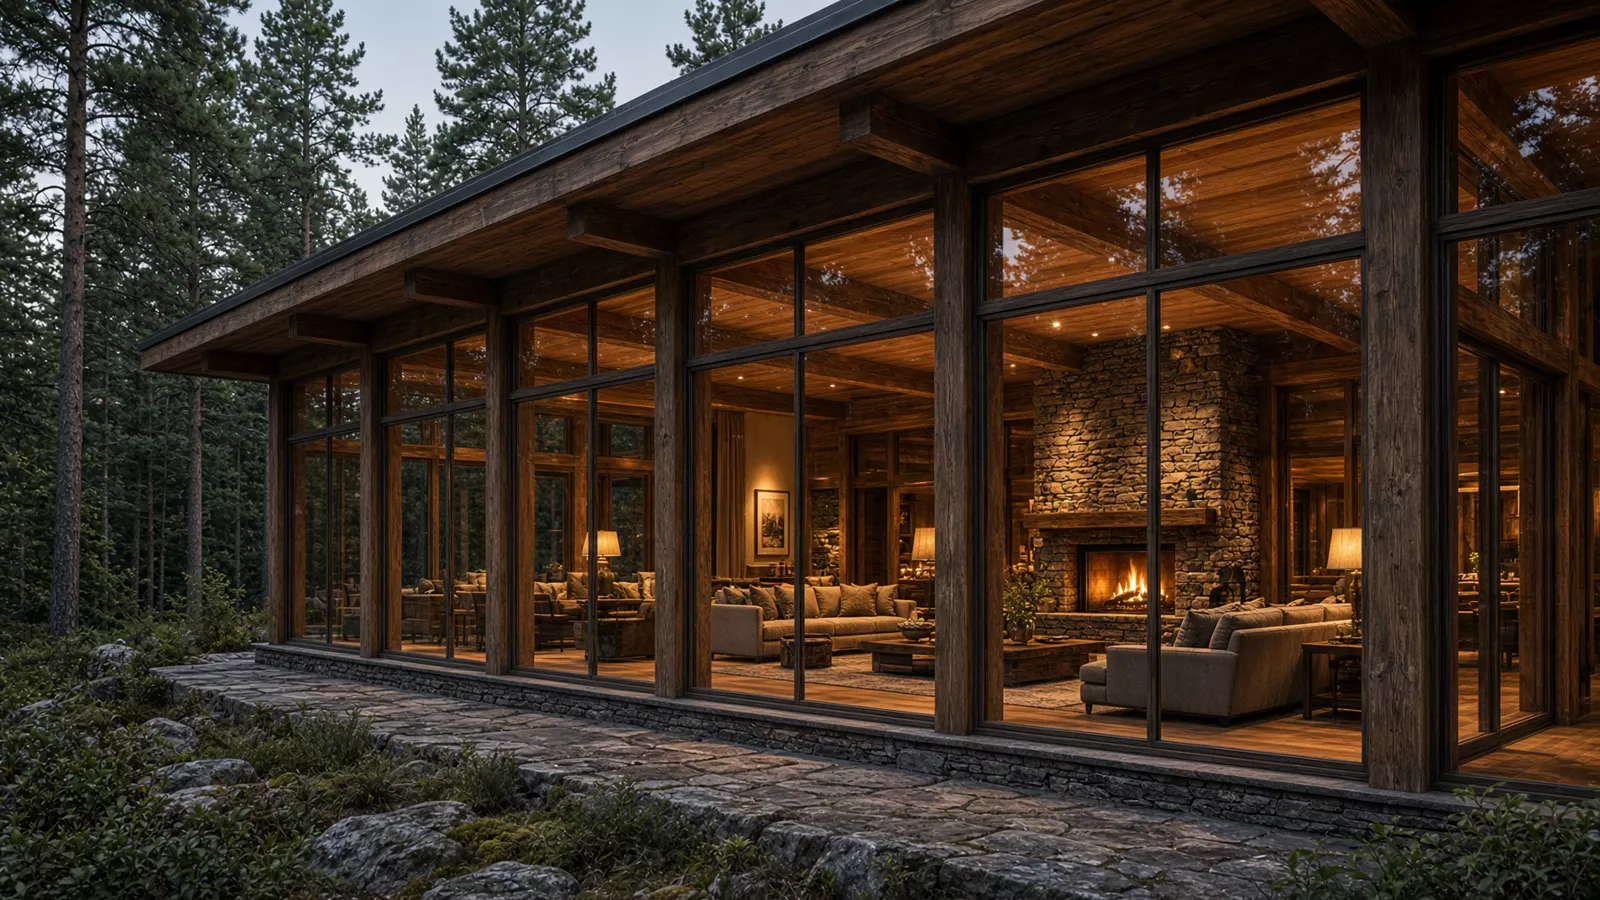
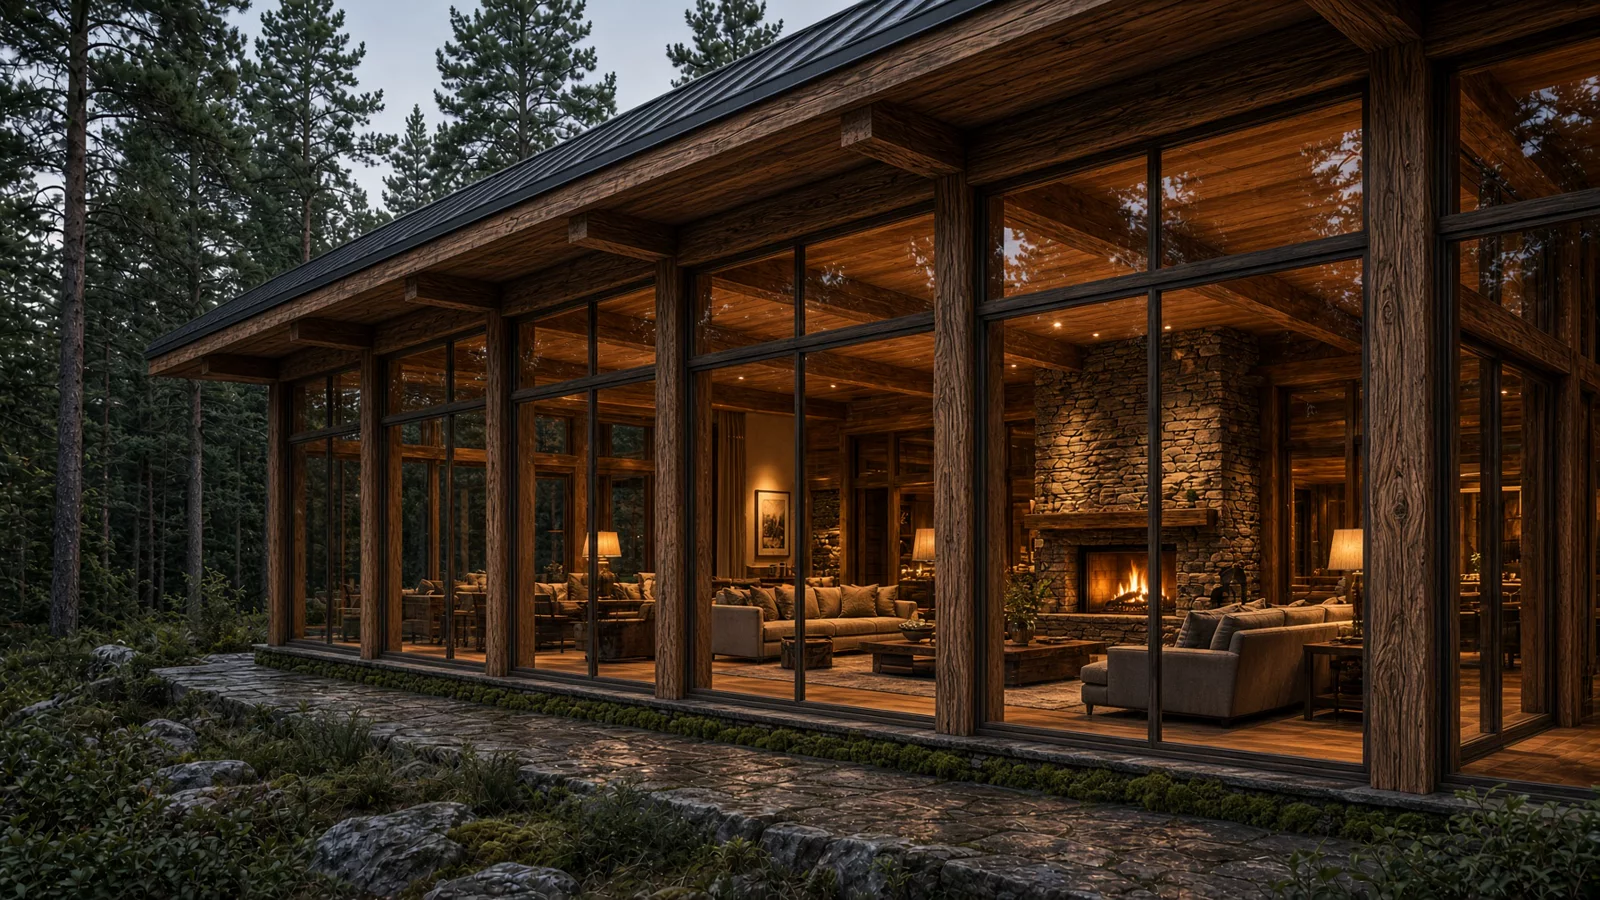
House textures: cedar grain, metal seams, PBR sheen on orbit

diff --git a/tour.html b/tour.html
@@ -25,7 +25,10 @@ body{background:var(--bg);color:var(--fg);font-family:var(--sans);-webkit-font-s
 .orbit-stage,.orbit-still,.fly-plane,.dive-film{position:absolute;inset:0}
 .orbit-stage{z-index:2;overflow:hidden}
 .orbit-still{opacity:0}
-.orbit-still img,.fly-plane img{position:absolute;inset:0;width:100%;height:100%;object-fit:cover}
+.orbit-still img,.fly-plane img{position:absolute;inset:0;width:100%;height:100%;object-fit:cover;filter:contrast(1.06) saturate(1.08)}
+.orbit-spec,.orbit-mat{position:absolute;inset:0;pointer-events:none}
+.orbit-spec{mix-blend-mode:screen;background:radial-gradient(ellipse 46% 38% at var(--lx,58%) var(--ly,36%), rgb(255 244 220 / var(--spec,0.16)) 0%, transparent 70%)}
+.orbit-mat{mix-blend-mode:overlay;opacity:.22;background-image:repeating-linear-gradient(90deg,transparent 0 2px,rgb(90 70 40 / 8%) 2px 3px),repeating-linear-gradient(0deg,transparent 0 11px,rgb(40 28 16 / 7%) 11px 12px)}
 .tour-hint{position:absolute;left:50%;bottom:5.5rem;z-index:16;transform:translateX(-50%);letter-spacing:.18em;text-transform:uppercase;font-size:11px;color:var(--accent);pointer-events:none;transition:opacity .6s ease}
 .dive-film{z-index:4;width:100%;height:100%;object-fit:cover;opacity:0;pointer-events:none}
 .fly-plane{z-index:5;opacity:0}
@@ -137,7 +140,7 @@ function orbitWeights(yaw,count){
 const orbit=document.getElementById("orbit");
 const roomsEl=document.getElementById("rooms");
 const dotsEl=document.getElementById("dots");
-orbit.innerHTML=facades.map((f)=>`<div class="orbit-still"><img src="${f.img}" alt="" width="1600" height="900"/></div>`).join("");
+orbit.innerHTML=facades.map((f)=>`<div class="orbit-still"><img src="${f.img}" alt="" width="1600" height="900"/><span class="orbit-spec"></span><span class="orbit-mat"></span></div>`).join("");
 roomsEl.innerHTML=rooms.map((r,n)=>`<article class="fly-plane"><img src="${n===0?r.img:r.lq}" alt="" width="1600" height="900"/><div class="shade"></div><div class="copy"><span class="eyebrow">0${n+2} — ${r.p}</span><h3>${r.t}</h3><p>${r.c}</p></div></article>`).join("");
 dotsEl.innerHTML=`<i class="on"></i>`+rooms.map(()=>`<i></i>`).join("");
 const faces=[...orbit.querySelectorAll(".orbit-still")];
@@ -166,6 +169,9 @@ function evalPbr(nv,nl,nh,mat){
   const kd=(1-F)*(1-mat.metallic);
   return {diffuse:0.38+kd*nl*0.72, spec, fresnel:F, env:F*(1-mat.roughness)*(0.35+0.65*(1-nv)), blur:6+mat.roughness*48, size:14+mat.roughness*48};
 }
+function wallLight(rel,mat){
+  return evalPbr(Math.cos(rel),Math.cos(rel-0.38),Math.cos(rel-0.19),mat);
+}
 function goTo(t){const s=track.offsetTop,e=s+track.offsetHeight-innerHeight;scrollTo({top:s+t*(e-s)})}
 const scrub=document.getElementById("scrub");
 const hint=document.getElementById("hint");
@@ -182,6 +188,15 @@ function draw(t,yaw){
     const a=w[i]||0;
     el.style.opacity=a<0.12?0:a;
     el.style.visibility=a<0.12?"hidden":"visible";
+    if(a>=0.12){
+      const step=360/faces.length;
+      const rel=(shortest(yaw-i*step)*Math.PI)/180;
+      const light=wallLight(rel,i%2?wallMats[1]:wallMats[0]);
+      const img=el.querySelector("img");
+      const spec=el.querySelector(".orbit-spec");
+      if(img) img.style.filter=`contrast(${1.05+(1-light.blur/54)*0.06}) saturate(1.08) brightness(${0.94+light.diffuse*0.1})`;
+      if(spec){spec.style.setProperty("--spec",String(Math.min(0.32,light.spec*0.18+light.env*0.22)));spec.style.setProperty("--lx",`${50+Math.sin(rel)*16}%`);spec.style.setProperty("--ly",`${40-Math.cos(rel)*10}%`);}
+    }
   });
   if(dive){
     dive.style.opacity=shot.dive;
